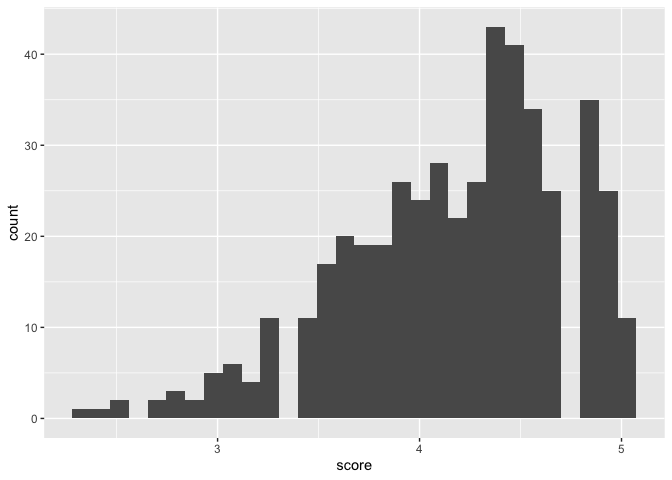
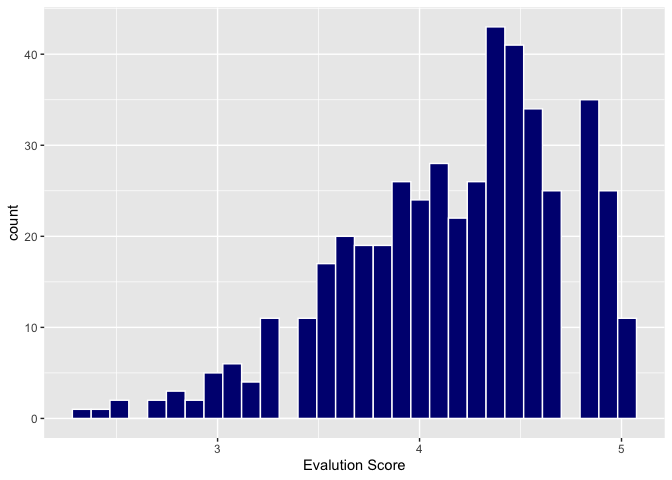
Lab 9 complete

Changed region(s): [[0.0938, 0.0312, 0.9688, 0.875], [0.4375, 0.9375, 0.5938, 1.0]]

diff --git a/lab-09.md b/lab-09.md
@@ -15,7 +15,8 @@ library(openintro)
 
 ``` r
 evals %>% 
-  ggplot(aes(x = score)) + geom_histogram (bindwidth = .25)
+  ggplot(aes(x = score)) + geom_histogram (bindwidth = .25, color = "white", fill = "navy") +
+  labs(x = "Evalution Score")
 ```
 
     ## Warning: Ignoring unknown parameters: bindwidth
@@ -36,18 +37,249 @@ evals %>%
 
 ``` r
 # score distribution is somewhat left-skewed; in general, students give pretty scores
+
+evals %>% 
+  ggplot(aes(x = score, y = bty_avg)) + 
+  geom_point() + 
+  labs(y = "Beauty Rating", x = "Evalution Score")
 ```
 
-Remove this text, and add your answer for Exercise 1 here. Add code
-chunks as needed. Don’t forget to label your code chunk. Do not use
-spaces in code chunk labels.
+![](lab-09_files/figure-gfm/score-distribution-2.png)<!-- -->
 
-### Exercise 2
+``` r
+evals %>% 
+  ggplot(aes(x = score, y = bty_avg)) + 
+  geom_jitter() +
+  labs(y = "Beauty Rating", x = "Evalution Score")
+```
 
-…
+![](lab-09_files/figure-gfm/score-distribution-3.png)<!-- -->
 
-Add exercise headings as needed.
+``` r
+#The geom_point plot looks like there are fewer data than there actually is
+```
 
-## 
+### Linear Regression Model
 
-For Exercise 12, relevel() function can be helpful!
+``` r
+m_bty = lm(score~bty_avg, data = evals) #Create the linear regression
+summary(m_bty)
+```
+
+    ## 
+    ## Call:
+    ## lm(formula = score ~ bty_avg, data = evals)
+    ## 
+    ## Residuals:
+    ##     Min      1Q  Median      3Q     Max 
+    ## -1.9246 -0.3690  0.1420  0.3977  0.9309 
+    ## 
+    ## Coefficients:
+    ##             Estimate Std. Error t value Pr(>|t|)    
+    ## (Intercept)  3.88034    0.07614   50.96  < 2e-16 ***
+    ## bty_avg      0.06664    0.01629    4.09 5.08e-05 ***
+    ## ---
+    ## Signif. codes:  0 '***' 0.001 '**' 0.01 '*' 0.05 '.' 0.1 ' ' 1
+    ## 
+    ## Residual standard error: 0.5348 on 461 degrees of freedom
+    ## Multiple R-squared:  0.03502,    Adjusted R-squared:  0.03293 
+    ## F-statistic: 16.73 on 1 and 461 DF,  p-value: 5.083e-05
+
+``` r
+evals %>% 
+ggplot(aes(x=score, y=bty_avg)) + 
+  geom_point()+
+  geom_smooth(method=lm, 
+              linetype="solid") +
+  geom_jitter() +
+  labs(y = "Beauty Rating", x = "Evalution Score")
+```
+
+    ## `geom_smooth()` using formula 'y ~ x'
+
+![](lab-09_files/figure-gfm/linear-regression-1.png)<!-- -->
+
+``` r
+#Regression line orange, no shading for error
+
+m_bty = lm(score~bty_avg, data = evals) #Create the linear regression
+summary(m_bty)
+```
+
+    ## 
+    ## Call:
+    ## lm(formula = score ~ bty_avg, data = evals)
+    ## 
+    ## Residuals:
+    ##     Min      1Q  Median      3Q     Max 
+    ## -1.9246 -0.3690  0.1420  0.3977  0.9309 
+    ## 
+    ## Coefficients:
+    ##             Estimate Std. Error t value Pr(>|t|)    
+    ## (Intercept)  3.88034    0.07614   50.96  < 2e-16 ***
+    ## bty_avg      0.06664    0.01629    4.09 5.08e-05 ***
+    ## ---
+    ## Signif. codes:  0 '***' 0.001 '**' 0.01 '*' 0.05 '.' 0.1 ' ' 1
+    ## 
+    ## Residual standard error: 0.5348 on 461 degrees of freedom
+    ## Multiple R-squared:  0.03502,    Adjusted R-squared:  0.03293 
+    ## F-statistic: 16.73 on 1 and 461 DF,  p-value: 5.083e-05
+
+``` r
+ggplot(evals, aes(x=score, y=bty_avg)) + 
+  geom_point()+
+  geom_smooth(method=lm, se=FALSE, linetype="solid",
+             color="orange") +
+        geom_jitter() +
+  labs(y = "Beauty Rating", x = "Evalution Score")
+```
+
+    ## `geom_smooth()` using formula 'y ~ x'
+
+![](lab-09_files/figure-gfm/linear-regression-2.png)<!-- --> score =
+3.88 + .07(bty_avg)
+
+Slope = .07, significant p-value. So for every one-unit increase in
+beauty score, there is a .07 increase in the prof evaluation score
+
+Intercept: For a beauty of zero, you would expect an prof evaluation
+score of 3.88. This doesn’t make much sense, since a score of zero is
+not possible (scales 1-10)
+
+R-squared = 0.04, beauty rating accounts for 4% of the variance in
+average professor evaluation scores.
+
+### Regression line & Gender
+
+``` r
+m_gen = lm(score~gender, data = evals)
+summary(m_gen)
+```
+
+    ## 
+    ## Call:
+    ## lm(formula = score ~ gender, data = evals)
+    ## 
+    ## Residuals:
+    ##      Min       1Q   Median       3Q      Max 
+    ## -1.83433 -0.36357  0.06567  0.40718  0.90718 
+    ## 
+    ## Coefficients:
+    ##             Estimate Std. Error t value Pr(>|t|)    
+    ## (Intercept)  4.09282    0.03867 105.852  < 2e-16 ***
+    ## gendermale   0.14151    0.05082   2.784  0.00558 ** 
+    ## ---
+    ## Signif. codes:  0 '***' 0.001 '**' 0.01 '*' 0.05 '.' 0.1 ' ' 1
+    ## 
+    ## Residual standard error: 0.5399 on 461 degrees of freedom
+    ## Multiple R-squared:  0.01654,    Adjusted R-squared:  0.01441 
+    ## F-statistic: 7.753 on 1 and 461 DF,  p-value: 0.005583
+
+``` r
+#y= .14(x) + 4.09 
+#males: y = .14(0) + 4.09 predicted score for males is 4.09
+#females: y = .14(1) + 4.09 predicted score for females is 4.23
+
+m_rank = lm(score~rank, data = evals)
+summary(m_rank)
+```
+
+    ## 
+    ## Call:
+    ## lm(formula = score ~ rank, data = evals)
+    ## 
+    ## Residuals:
+    ##     Min      1Q  Median      3Q     Max 
+    ## -1.8546 -0.3391  0.1157  0.4305  0.8609 
+    ## 
+    ## Coefficients:
+    ##                  Estimate Std. Error t value Pr(>|t|)    
+    ## (Intercept)       4.28431    0.05365  79.853   <2e-16 ***
+    ## ranktenure track -0.12968    0.07482  -1.733   0.0837 .  
+    ## ranktenured      -0.14518    0.06355  -2.284   0.0228 *  
+    ## ---
+    ## Signif. codes:  0 '***' 0.001 '**' 0.01 '*' 0.05 '.' 0.1 ' ' 1
+    ## 
+    ## Residual standard error: 0.5419 on 460 degrees of freedom
+    ## Multiple R-squared:  0.01163,    Adjusted R-squared:  0.007332 
+    ## F-statistic: 2.706 on 2 and 460 DF,  p-value: 0.06786
+
+``` r
+#y= 4.28 -.13(X1) + -.15(X2)
+#predicted score for teaching rank is 4.28
+#predicted score for tenure track is 4.15
+#predicted score for tenured is 4.13
+```
+
+### Relevel Rank positions
+
+``` r
+rank_evals <- evals%>%
+  mutate(rank_relevel = case_when(rank== "tenure track" ~ 0,
+                          rank== "teaching" ~ 1,
+                          rank== "tenured" ~ 2))
+m_rank_relevel<- lm( score~ rank_relevel, data = rank_evals) #Create the linear regression
+summary(m_rank_relevel)
+```
+
+    ## 
+    ## Call:
+    ## lm(formula = score ~ rank_relevel, data = rank_evals)
+    ## 
+    ## Residuals:
+    ##     Min      1Q  Median      3Q     Max 
+    ## -1.9032 -0.3599  0.1185  0.4185  0.8401 
+    ## 
+    ## Coefficients:
+    ##              Estimate Std. Error t value Pr(>|t|)    
+    ## (Intercept)   4.20317    0.04751  88.463   <2e-16 ***
+    ## rank_relevel -0.02166    0.03063  -0.707     0.48    
+    ## ---
+    ## Signif. codes:  0 '***' 0.001 '**' 0.01 '*' 0.05 '.' 0.1 ' ' 1
+    ## 
+    ## Residual standard error: 0.5442 on 461 degrees of freedom
+    ## Multiple R-squared:  0.001084,   Adjusted R-squared:  -0.001083 
+    ## F-statistic:   0.5 on 1 and 461 DF,  p-value: 0.4798
+
+``` r
+#y = 4.2 - .02(rank)
+#each step up the rank is associated with a .02 decrease in prof eval score (non-significant)
+#rank only accounts for .001 percent of variance in prof eval score.
+```
+
+###Tenure Eligibility
+
+``` r
+evals <- evals%>% 
+  mutate(tenure_eligible = if_else(rank == "teaching", "No", "Yes"))
+
+#Regression line based on tenure eligibility
+
+m_tenure_eligible = lm(score ~ tenure_eligible, data = evals) 
+summary(m_tenure_eligible)
+```
+
+    ## 
+    ## Call:
+    ## lm(formula = score ~ tenure_eligible, data = evals)
+    ## 
+    ## Residuals:
+    ##     Min      1Q  Median      3Q     Max 
+    ## -1.8438 -0.3438  0.1157  0.4360  0.8562 
+    ## 
+    ## Coefficients:
+    ##                    Estimate Std. Error t value Pr(>|t|)    
+    ## (Intercept)          4.2843     0.0536  79.934   <2e-16 ***
+    ## tenure_eligibleYes  -0.1406     0.0607  -2.315    0.021 *  
+    ## ---
+    ## Signif. codes:  0 '***' 0.001 '**' 0.01 '*' 0.05 '.' 0.1 ' ' 1
+    ## 
+    ## Residual standard error: 0.5413 on 461 degrees of freedom
+    ## Multiple R-squared:  0.0115, Adjusted R-squared:  0.009352 
+    ## F-statistic: 5.361 on 1 and 461 DF,  p-value: 0.02103
+
+``` r
+## y = 4.28 -.14(tenure_eligible)
+# tenure eligible faculty have predicted prof eval scores .14 lower (4.14) than non-tenure eligible faculty (4.28)
+#R-squared: tenure eligibility accounted for .01 percent of the variance in prof evaluation score
+```
